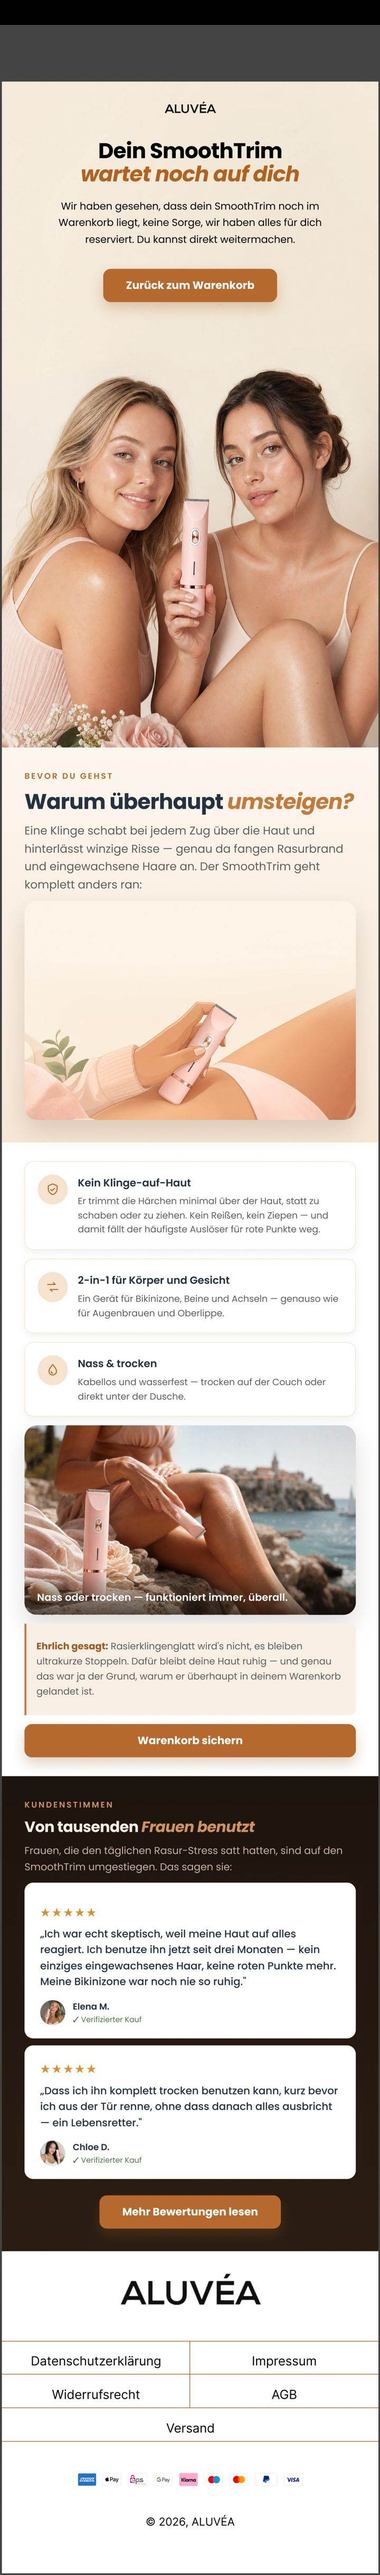
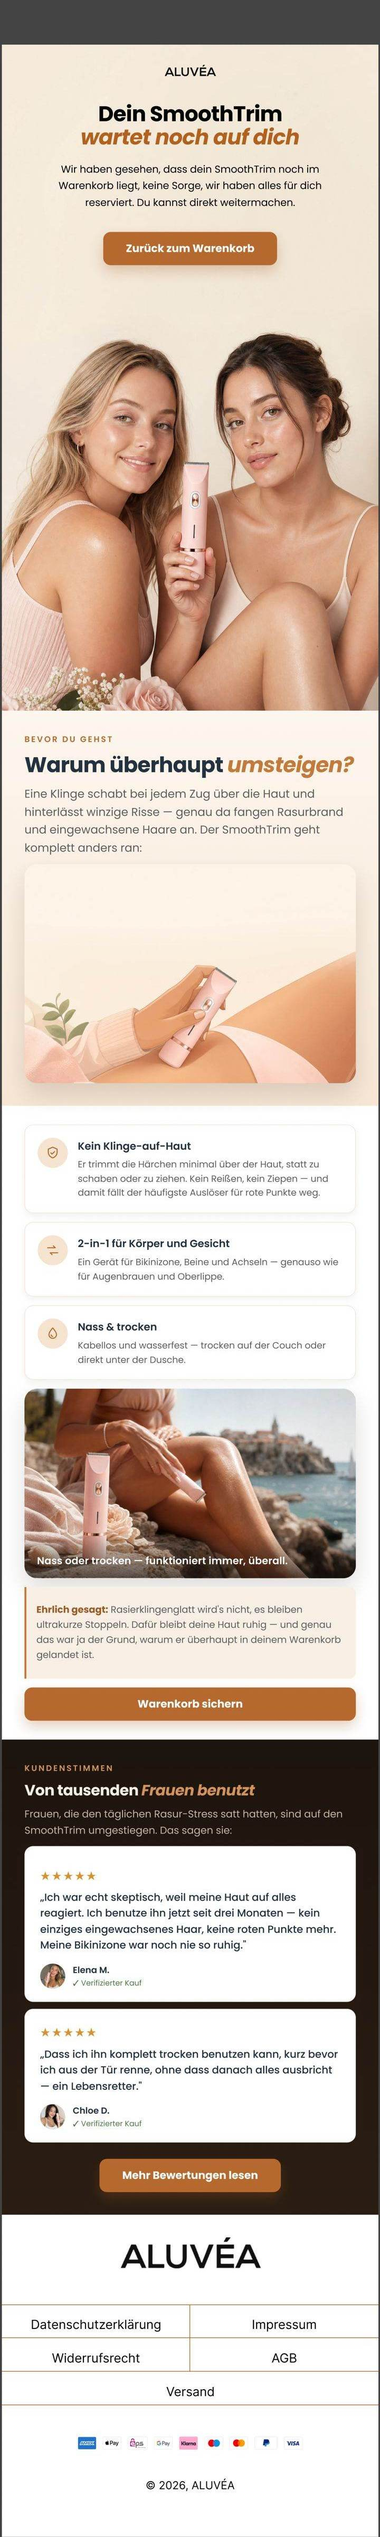
Add tilted email collage cover + fix ALUVÉA crops
- Generate a Behance-style tilted collage from the real email screens
  (rounded cards, soft shadows, -14deg) and add it as a full-width cover
  band under the hero.
- Trim leftover dark board slivers from the tops of the ALUVÉA
  (checkout/cart/browse/site) and a couple of KOLAROSE crops so each
  email image is cleanly bounded.

Claude-Session: https://claude.ai/code/session_013jYLDzMvsLuwMWDMCSBXMg

diff --git a/email-design.html b/email-design.html
@@ -58,6 +58,10 @@
     .clients .row span{font-family:var(--serif);font-size:1rem;color:var(--ink-soft);letter-spacing:.01em}
     .clients .row .sep{color:var(--line-2);font-family:var(--sans)}
 
+    /* cover collage */
+    .cover{width:100%;overflow:hidden;line-height:0;border-bottom:1px solid var(--line);background:#ece9e2}
+    .cover img{width:100%;height:clamp(240px,40vw,500px);object-fit:cover;object-position:center;display:block}
+
     /* section scaffolding */
     section{padding:4.5rem 0;scroll-margin-top:80px}
     .sec-top{display:flex;align-items:flex-end;justify-content:space-between;gap:2rem;flex-wrap:wrap;margin-bottom:3rem}
@@ -190,6 +194,8 @@
     </div>
   </div>
 </header>
+
+<div class="cover"><img src="campaigns/assets/cover-collage.jpg" alt="A selection of email designs by Olaitan Hammed" loading="eager"></div>
 
 <main class="wrap">
   <section id="work">
